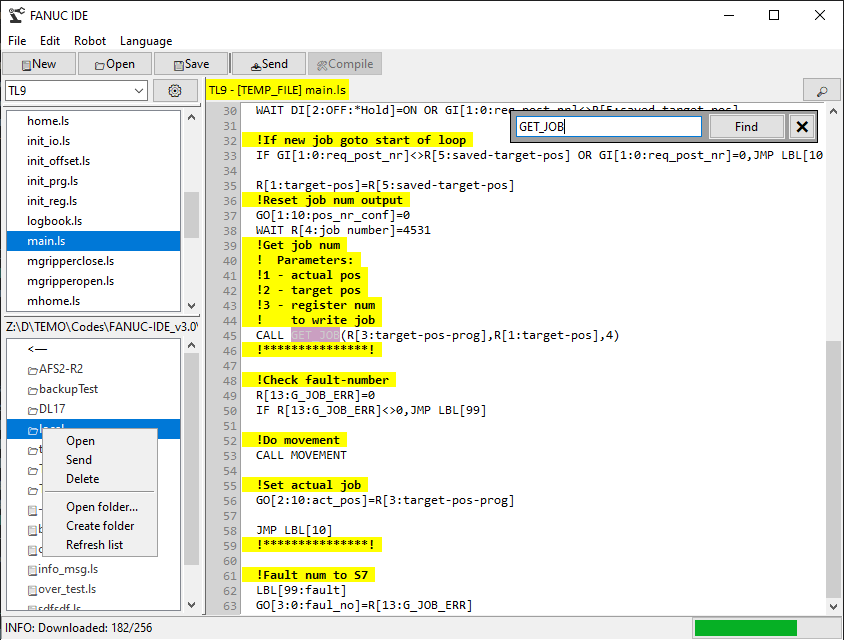
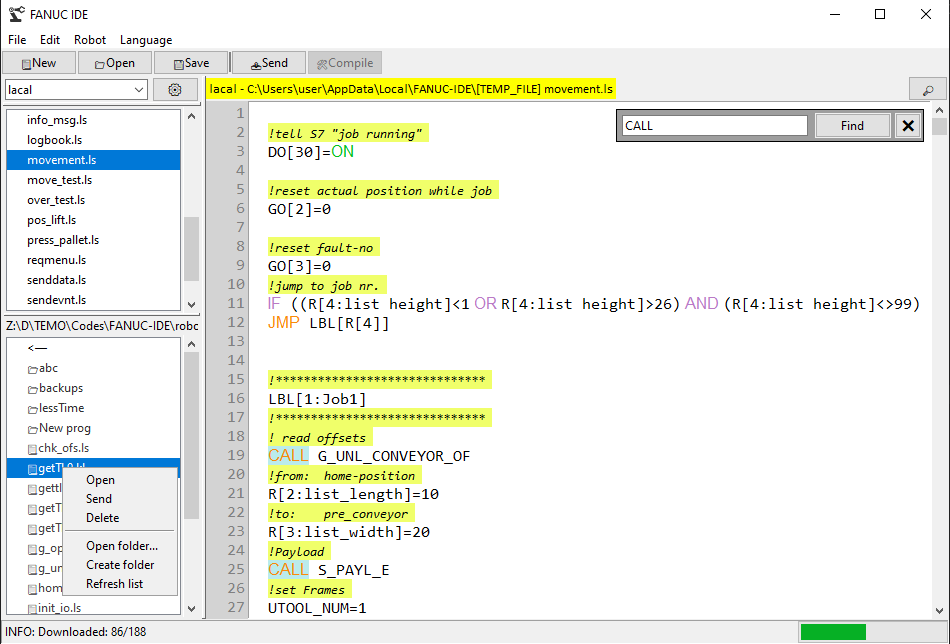
update3.7.1#Added minimal text highlighting and fixed a compilation error.

diff --git a/main.py b/main.py
@@ -1,4 +1,4 @@
-import tkinter as tk, os, json, shutil, subprocess, sys
+import tkinter as tk, os, json, shutil, subprocess, sys, configparser
 from tkinter.ttk import Progressbar
 from tkinter import filedialog, messagebox, ttk, Menu, simpledialog
 from src.ftp_settings import  FTPSettingsWindow
@@ -6,7 +6,7 @@ from src.ls_settings import LSSettingsWindow
 from ftplib import FTP
 from threading import Thread
 from datetime import datetime
-from src.conf import LANGUAGES, CURRENT_LANGUAGE
+from src.conf import LANGUAGES, CURRENT_LANGUAGE, SINTAX_WORDS
 
 class FANUCE_IDE:
     def __init__(self, root):
@@ -28,14 +28,17 @@ class FANUCE_IDE:
             self.CURRENT_DIRICTORY = temp['path']
             self.language = temp['lang']
             self.root.geometry(temp['geo'])
-        if not os.path.exists(f'{self.cache_folder}\\robot.ini'):
-            self._create_robot_ini(self.cache_folder)
+        self.check_robot_ini(self.cache_folder, self.PROJECT_DIRICTORY)
         self.files_queue = []
         self.buffer_header, self.buffer_asser, self.target_server_name = '', '', ''
         self.target_server, self.all_servers = {}, {}
         self.is_modified = False
         self.SysKeys = ["Control_R", "Control_L", "Alt_L", "Alt_R", "Escape", "Shift_L", "Shift_R"]
         self.del_stoppers = [" ", ",", ".", "!", "?", ";", ":", "-", "(", ")", "\\", "/", "="]
+        self.keywords = SINTAX_WORDS['keywords']
+        self.logic = SINTAX_WORDS['logic']
+        self.data = SINTAX_WORDS['data']
+        self.point = SINTAX_WORDS['point']
         self.is_karel = False
         self.filter_server_files = tk.IntVar(value=1)
         self.ls_info = {}
@@ -140,12 +143,12 @@ class FANUCE_IDE:
             yscrollcommand=self.scrollbarY.set,
             wrap=tk.NONE, 
             pady=2,
-            font=("Consolas", 10),
+            font=("Consolas", 12),
             width=80, 
             height=25,
-            state='disabled'
+            state='disable'
         )
-        self.search_bar = SearchBar(self.text_area, self.translate)
+        self.search_bar = SearchBar(self.text_area, self.translate, self)
         search_button.config(command=self.search_bar.show)
         self.line_numbers = tk.Text(
             code_frame,
@@ -154,7 +157,7 @@ class FANUCE_IDE:
             pady=2,
             takefocus=0,
             border=0,
-            font=("Consolas", 10),
+            font=("Consolas", 12),
             background='lightgray',
             foreground='gray',
             state='disabled'
@@ -195,10 +198,16 @@ class FANUCE_IDE:
         self.text_area.bind('<<Modified>>', self.highlight_code)
         self.text_area.bind("<Control-KeyPress>", self.on_ctrl_keypress)
         # Настраиваем тег для подсветки
-        self.text_area.tag_config("comments",
+        self.text_area.tag_config('comments',
                                   foreground="black",      # цвет текста
-                                  background="yellow",        # цвет фона
-                                  font=("Consolas", 10, "bold"))  # шрифт
+                                  background="#f0ff6a",        # цвет фона
+                                  font=("Consolas", 10, 'italic'))  # шрифт
+        self.text_area.tag_configure('keywords', foreground="#FA8A0B", font=('bold'))
+        self.text_area.tag_configure('logic', foreground="#BA7AC7", font=('bold'))
+        self.text_area.tag_configure('ON', foreground="#00c020", font=('bold'))
+        self.text_area.tag_configure('OFF', foreground="#910000", font=('bold'))
+        self.text_area.tag_configure('data', foreground="#278fb8")
+        self.text_area.tag_configure('point', foreground="#3337ff")
         self.root.protocol("WM_DELETE_WINDOW", self.on_close)  # Обработка закрытия окна
         # Настройка прокрутки
         self.text_area.config(yscrollcommand=self.sync_scroll)
@@ -212,19 +221,64 @@ class FANUCE_IDE:
             self.open_file(sys.argv[1])
 
 
-    def highlight_code(self, event=None):
+    def highlight_code(self, event=None, find=''):
+        print("kbfgy")
         # Удаляем все теги подсветки
         self.text_area.tag_remove("comments", "1.0", tk.END)
+        self.text_area.tag_remove("search", "1.0", tk.END)
+        self.text_area.tag_remove("sel", "1.0", tk.END)
+        self.text_area.tag_remove("keywords", "1.0", tk.END)
+        self.text_area.tag_remove("logic", "1.0", tk.END)
+        self.text_area.tag_remove("data", "1.0", tk.END)
+        self.text_area.tag_remove("point", "1.0", tk.END)
+        self.text_area.tag_remove("ON", "1.0", tk.END)
+        self.text_area.tag_remove("OFF", "1.0", tk.END)
         # Получаем весь текст
         content = self.text_area.get("1.0", tk.END)
         lines = content.splitlines()
         for line_num, line in enumerate(lines, start=1):
+            for word in self.keywords:
+                if word in line:
+                    start = f'{line_num}.{line.index(word)}'
+                    end = f'{start}+{len(word)}c'
+                    self.text_area.tag_add("keywords", start, end)
+            for word in self.logic:
+                if word in line:
+                    start = f'{line_num}.{line.index(word)}'
+                    end = f'{start}+{len(word)}c'
+                    self.text_area.tag_add("logic", start, end)
+            for word in self.point:
+                if word in line and line.index(word) <= 2:
+                    start = f'{line_num}.{line.index(word)}'
+                    end = f'{start}+{len(word)}c'
+                    self.text_area.tag_add("point", start, end)
+            if '=ON' in line:
+                start = f'{line_num}.{line.index('=ON')+1}'
+                end = f'{start}+{len('=ON')-1}c'
+                self.text_area.tag_add("ON", start, end)
+            if '=OFF' in line:
+                start = f'{line_num}.{line.index('=OFF')+1}'
+                end = f'{start}+{len('=OFF')-1}c'
+                self.text_area.tag_add("OFF", start, end)
             if '!' in line and line.index('!') < 3:
                 # Координаты начала и конца строки
-                start = f"{line_num}.0"
+                start = f"{line_num}.{line.index('!')}"
                 end = f"{line_num}.{len(line)}"
                 # Применяем тег к строке
                 self.text_area.tag_add("comments", start, end)
+        if find:
+            start = '1.0'
+            count = 0
+            while True:
+                pos = self.text_area.search(find, start, stopindex='end', nocase=True)
+                if not pos:
+                    break
+                # Вычисляем конец найденного фрагмента
+                end = f"{pos}+{len(find)}c"
+                self.text_area.tag_remove('comments', pos, end)
+                self.text_area.tag_add('search', pos, end)
+                start = end
+                count += 1
     
     def create_menu(self):
         menubar = tk.Menu(self.root)
@@ -522,15 +576,25 @@ class FANUCE_IDE:
             self.local_path_label.config(text=self.CURRENT_DIRICTORY)
             self.CURRENT_DIRICTORY = parent
         
-    def _create_robot_ini(self, main_dir):
-        with open(f'{main_dir}\\robot.ini', 'w', encoding='utf-8') as f:
+    def check_robot_ini(self, cache_dir, project_dir):
+        if not os.path.exists(f'{self.cache_folder}\\robot.ini'):
+            self._create_robot_ini(cache_dir, project_dir)
+        else:
+            config = configparser.ConfigParser()
+            config.read(f'{self.cache_folder}\\robot.ini')
+            path = config["WinOLPC_Util"]["Robot"]
+            if not self.PROJECT_DIRICTORY in path:
+                self._create_robot_ini(cache_dir, project_dir)
+
+    def _create_robot_ini(self, cache_dir, project_dir):
+        with open(f'{cache_dir}\\robot.ini', 'w', encoding='utf-8') as f:
             print('Creating robot.ini...')
             f.write('[WinOLPC_Util]\n')
-            f.write(f'Robot={main_dir}\\resources\\Robot_1\n')
+            f.write(f'Robot={project_dir}\\resources\\Robot_1\n')
             f.write('Version=V9.10-1\n')
-            f.write(f'Path={main_dir}\\resources\\V910-1\\bin\n')
-            f.write(f'Support={main_dir}\\resources\\Robot_1\\support\n')
-            f.write(f'Output={main_dir}\\resources\\Robot_1\\output\n')
+            f.write(f'Path={project_dir}\\resources\\V910-1\\bin\n')
+            f.write(f'Support={project_dir}\\resources\\Robot_1\\support\n')
+            f.write(f'Output={project_dir}\\resources\\Robot_1\\output\n')
     
     def _open_local_folder(self, l_path=''):
         open_folder = l_path if l_path else filedialog.askdirectory(title=self.translate('choice_folder'),
@@ -942,6 +1006,7 @@ class FANUCE_IDE:
                         self.edit_menu.entryconfig('KL', state=tk.DISABLED)
                 except Exception as e:
                     self.show_info(f'{self.translate('couldnt_open_file')}: {e}', 2, 1)
+        self.highlight_code()
 
     def save_file(self, event=None):
         """Сохраняет файл, если он уже существует, иначе вызывает 'Сохранить как'."""
@@ -1021,6 +1086,7 @@ class FANUCE_IDE:
 
     def new_input(self, event):
         """Обработка нового ввода."""
+        print(event)
         if not self.CURRENT_FILE or self.is_temp:
             return
         if event.keycode == 9: # 9 - tab
@@ -1040,6 +1106,8 @@ class FANUCE_IDE:
             if self.text_area.get(start_index, cursor_index) == " " * 4:
                 self.text_area.delete(start_index, cursor_index)
                 return "break"  # Предотвращает стандартное поведение BackSpace
+        elif event.keysym == 'Control_L':
+            return "continue"
         else:
             self.is_modified = True
         self.update_line_numbers()
@@ -1068,7 +1136,7 @@ class FANUCE_IDE:
         self.line_numbers.config(state=tk.DISABLED)
         # Синхронизируем прокрутку
         self.line_numbers.yview_moveto(self.text_area.yview()[0])
-        self.highlight_code()
+        # self.highlight_code()
 
     def show_ftp_settings(self):
         """Открывает окно настроек FTP"""
@@ -1141,7 +1209,8 @@ class FANUCE_IDE:
             self.root.after(100, self.tread_service)
 
 class SearchBar:
-    def __init__(self, text_widget, translater):
+    def __init__(self, text_widget, translater, ide):
+        self.ide = ide
         self.view = False
         self.translate = translater
         self.text = text_widget
@@ -1159,7 +1228,8 @@ class SearchBar:
         # Инициализация позиции и видимости
         self.hide()        
         # Настройка тега для подсветки найденного
-        self.text.tag_configure('search', background="#CA9FC1", foreground="#CCCCCC")
+        self.text.tag_configure('search', background="#BAEBEC", foreground="#000000")
+        self.text.tag_configure('sel', background="#4C56DF", foreground="#000000")
         
         # Привязка горячих клавиш
         self.text.bind('<Control-f>', lambda e: self.show())
@@ -1181,34 +1251,15 @@ class SearchBar:
     def hide(self):
         """Скрыть панель поиска и снять подсветку"""
         self.frame.place_forget()
-        self.text.tag_remove('search', '1.0', 'end')
+        self.ide.highlight_code(find='')
         self.view = False
         
     def find_all(self, no_first=False):
         """Найти все вхождения и подсветить их"""
-        self.text.tag_remove('search', '1.0', 'end')
         query = self.entry.get()
         if not query:
             return
-        
-        # Настройки поиска
-        start = '1.0'
-        count = 0
-        while True:
-            pos = self.text.search(query, start, stopindex='end', nocase=True)
-            if not pos:
-                break
-            # Вычисляем конец найденного фрагмента
-            end = f"{pos}+{len(query)}c"
-            self.text.tag_add('search', pos, end)
-            start = end
-            count += 1
-        
-        # Если есть результаты, переходим к первому
-        if count > 0 and not no_first:
-            self.text.tag_remove('sel', '1.0', 'end')
-            self.text.tag_add('sel', '1.0', f"1.0+{len(query)}c")
-            self.text.see('1.0')
+        self.ide.highlight_code(find=query)
     
     def find_next(self):
         """Найти следующее вхождение"""
@@ -1216,28 +1267,19 @@ class SearchBar:
         if not query:
             return        
         # Текущая позиция курсора (начало выделения или позиция вставки)
-        try:
-            sel_start = self.text.index('sel.first')
-        except tk.TclError:
-            sel_start = self.text.index('insert')        
+        sel_start = self.text.index('insert')
         # Ищем от текущей позиции
         pos = self.text.search(query, sel_start, stopindex='end', nocase=True)
-        if pos:
-            end = f"{pos}+{len(query)}c"
-            self.text.tag_remove('sel', '1.0', 'end')
-            self.text.tag_add('sel', pos, end)
-            self.text.see(pos)
-            # Дополнительно подсветим все вхождения
-            self.find_all(True)
-        else:
-            # Если не нашли, можно зациклить с начала
+        if not pos:
             pos = self.text.search(query, '1.0', stopindex='end', nocase=True)
-            if pos:
-                end = f"{pos}+{len(query)}c"
-                self.text.tag_remove('sel', '1.0', 'end')
-                self.text.tag_add('sel', pos, end)
-                self.text.see(pos)
-                self.find_all()
+        self.find_all()
+        end = self.text.index(f"{pos}+{len(query)}c")
+        self.text.tag_remove('comments', pos, end)
+        self.text.tag_remove('search', pos, end)
+        self.text.tag_add('sel', pos, end)
+        self.text.see(pos)
+        self.text.mark_set("insert", f'{pos}+{len(query)}c')
+        self.text.focus_set()
 
 if __name__ == "__main__":
     root = tk.Tk()

diff --git a/src/conf.py b/src/conf.py
@@ -213,16 +213,18 @@ LANGUAGES = {
 
 SINTAX_WORDS = {
 'keywords': [
-            'IF', 'WAIT', 'CALL', 'PAUSE', 'ENDIF', 'ELSE',
-            'THEN', 'SKIP', 'JMP',
-            'RUN', 'L', 'J',
+            'WAIT', 'CALL', 'PAUSE',
+            'SKIP', 'JMP', 'RUN'
             ],
 'logic': [
-         'AND', 'OR', 'ON', 'OFF',
+         'ENDIF','THEN', 'ELSE', 'IF', ' AND ', ' OR '
          ],
-'datas': [
+'data': [
          'DO', 'DI', 'F', 'R', 'P', 'PR',
          ],
+'point': [
+         'J ', 'L '
+         ]
 }
 
 CURRENT_LANGUAGE = 'en'  # by default
